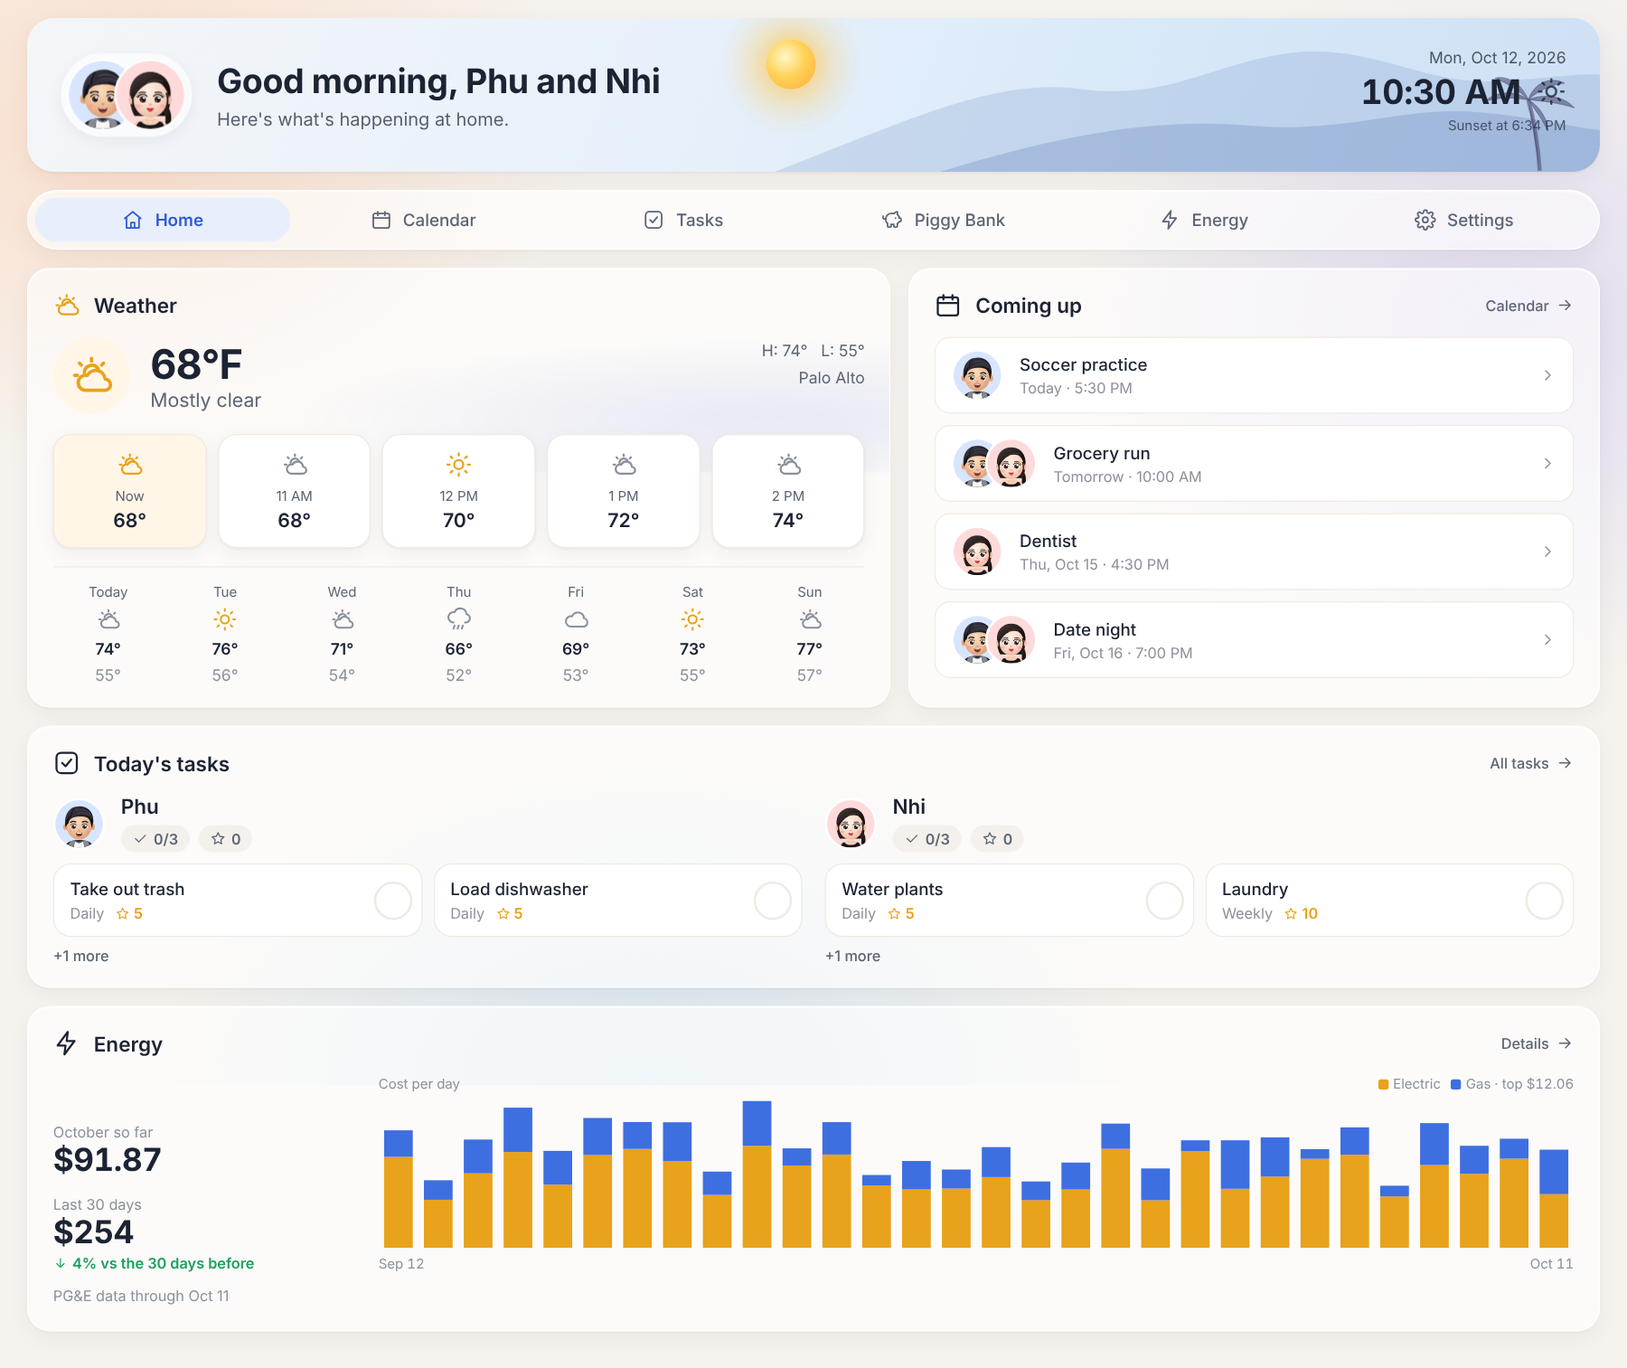
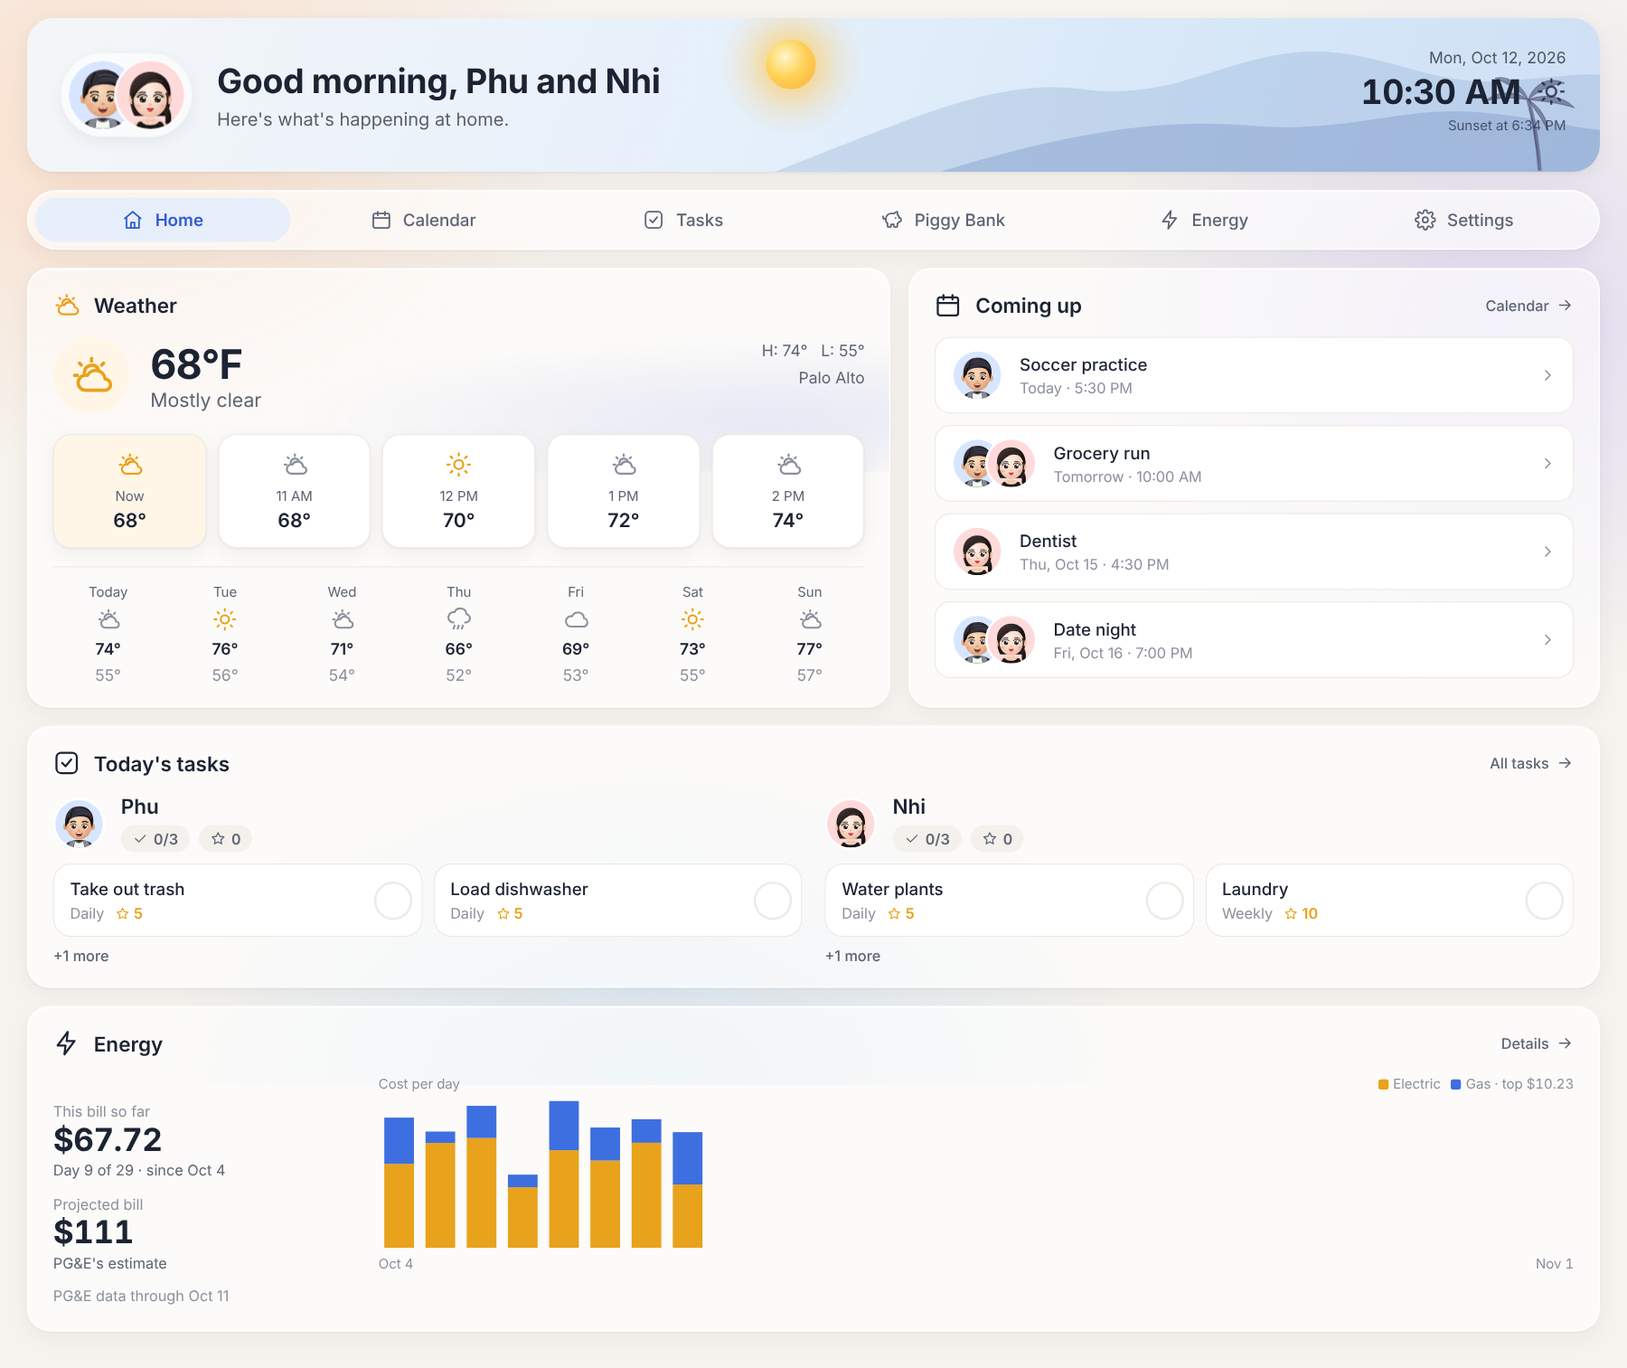
Show energy for the current PG&E billing cycle
The daily sync now also saves PG&E's past bills and the current bill
forecast (cycle start and end, cost so far, projected cost) in the
encrypted file. The Energy page defaults to This bill: from the cycle's
first day through today, with day N of the cycle, days left and the
projected bill. Last bill and a By bill table follow PG&E's 29/30-day
cycles instead of calendar months. Falls back to the old views until
cycle dates have synced.

Claude-Session: https://claude.ai/code/session_01YGrfzBSnYmjfhyHiewCr5E

Changed region(s): [[0.2178, 0.8077, 0.9644, 0.9319], [0.0311, 0.8077, 0.1556, 0.9319]]

diff --git a/app.js b/app.js
@@ -334,6 +334,8 @@ async function syncEnergy() {
     const data = await decryptEnergy(box, energyPass);
     energy = energy || { electric: {}, gas: {} };
     for (const k of ['electric', 'gas']) energy[k] = { ...(energy[k] || {}), ...(data[k] || {}) };
+    energy.bills = { ...(energy.bills || {}), ...(data.bills || {}) };
+    if (data.forecast) energy.forecast = data.forecast;
     energy.syncedAt = data.syncedAt;
     saveEnergy();
     energySync = { state: Date.now() - data.syncedAt > 36 * 36e5 ? 'stale' : 'ok', at: data.syncedAt };
@@ -370,10 +372,58 @@ function syncBanner(always = false, link = true) {
 }
 
 // Daily or monthly rows for a range, newest last. Each row: { key, label, kwh, therms, eCost, gCost, cost }
+/* PG&E bills every 29 or 30 days, so "this bill" follows the billing cycle, not the calendar month.
+   Cycle start dates come from past bills and the current bill's forecast in the synced file. */
+const dayAt = (iso) => new Date(`${iso}T12:00`);
+const daysIncl = (a, b) => Math.round((dayAt(b) - dayAt(a)) / 864e5) + 1;
+function cycleStarts() {
+  const s = new Set(Object.keys(energy?.bills || {}));
+  if (energy?.forecast?.start) s.add(energy.forecast.start);
+  return [...s].sort();
+}
+// The billing cycle that contains `iso` (today by default), or null before any cycle dates have synced.
+function cycleFor(iso = isoDay(new Date())) {
+  const starts = cycleStarts();
+  const i = starts.filter((d) => d <= iso).length - 1;
+  if (i < 0) return null;
+  let start = starts[i];
+  if (starts[i + 1]) return { start, end: isoDay(addDays(dayAt(starts[i + 1]), -1)), known: true };
+  const f = energy.forecast;
+  let end = f?.start === start && f.end ? f.end : isoDay(addDays(dayAt(start), 29));
+  if (daysIncl(start, end) > 31) end = isoDay(addDays(dayAt(end), -1));
+  let known = f?.start === start;
+  // The bill closed but the next one hasn't synced yet: assume a 30-day cycle follows.
+  while (end < iso) { start = isoDay(addDays(dayAt(end), 1)); end = isoDay(addDays(dayAt(start), 29)); known = false; }
+  return { start, end, known };
+}
+function previousCycle(c) {
+  const before = isoDay(addDays(dayAt(c.start), -1));
+  const p = cycleFor(before);
+  return p && p.start < c.start ? { ...p, end: before } : { start: isoDay(addDays(dayAt(before), -29)), end: before, known: false };
+}
+const cycleRange = (c) => `${fmtShort(c.start)} – ${fmtShort(c.end)}`;
+// PG&E's projection for the current bill, when the forecast matches this cycle.
+function billForecast(c) {
+  const f = energy?.forecast;
+  if (!f || !c || f.start !== c.start) return null;
+  const sum = (i) => (f.electric?.[i] || 0) + (f.gas?.[i] || 0);
+  return { toDate: sum(0), projected: sum(1), typical: sum(2) };
+}
+const billed = (start) => { const b = energy?.bills?.[start]; return b ? (b.electric?.[1] || 0) + (b.gas?.[1] || 0) : null; };
+
 function energyRows(range) {
   const all = energyDays();
   if (!all.length) return [];
   const last = new Date(`${all[all.length - 1]}T12:00`);
+  if (range === 'cycle' || range === 'last') {
+    let c = cycleFor();
+    if (!c) return energyRows('30');
+    if (range === 'last') c = previousCycle(c);
+    return Array.from({ length: daysIncl(c.start, c.end) }, (_, i) => {
+      const key = isoDay(addDays(dayAt(c.start), i));
+      return { key, label: fmtShort(key), days: all.includes(key) ? 1 : 0, ...dayTotal(key) };
+    });
+  }
   if (range === '12m') {
     return Array.from({ length: 12 }, (_, i) => {
       const m = new Date(last.getFullYear(), last.getMonth() - 11 + i, 1);
@@ -420,19 +470,29 @@ function energyCard() {
   const head = `<div class="card-head">${icon('zap')}<h2>Energy</h2>${all.length ? `<a class="link" href="#/energy">Details ${icon('arrowRight')}</a>` : ''}</div>`;
   if (!all.length) return `<div class="card a-energy">${head}${syncBanner()}</div>`;
   const last = all[all.length - 1];
-  const rows = energyRows('30');
-  const now = energyTotals(rows);
-  const prev = sumDays(energyRows('60').slice(0, 30).filter((r) => r.days).map((r) => r.key));
-  const month = sumDays(all.filter((d) => d.slice(0, 7) === last.slice(0, 7)));
-  const hasCost = now.cost > 0;
-  const change = prev.cost > 0 && energyRows('60').slice(0, 30).filter((r) => r.days).length >= 25 ? Math.round(((now.cost - prev.cost) / prev.cost) * 100) : null;
+  const c = cycleFor();
+  const fmt = (t) => (t.cost > 0 ? fmtMoney(t.cost) : `${Math.round(t.kwh)} kWh`);
+  let stats; let rows;
+  if (c) {
+    rows = energyRows('cycle');
+    const now = energyTotals(rows);
+    const fc = billForecast(c);
+    const prev = previousCycle(c);
+    const prevT = energyTotals(energyRows('last'));
+    const dayN = Math.min(daysIncl(c.start, isoDay(new Date())), daysIncl(c.start, c.end));
+    stats = `<div><small>This bill so far</small><b>${fmt(now)}</b><span class="stat-note">Day ${dayN} of ${daysIncl(c.start, c.end)} · since ${fmtShort(c.start)}</span></div>
+      ${fc && fc.projected ? `<div><small>Projected bill</small><b>${fmtMoney(fc.projected)}</b><span class="stat-note">PG&amp;E's estimate</span></div>`
+        : `<div><small>Last bill</small><b>${fmt(billed(prev.start) !== null ? { cost: billed(prev.start) } : prevT)}</b><span class="stat-note">${cycleRange(prev)}</span></div>`}`;
+  } else {
+    rows = energyRows('30');
+    const now = energyTotals(rows);
+    const month = sumDays(all.filter((d) => d.slice(0, 7) === last.slice(0, 7)));
+    stats = `<div><small>${new Date(`${last}T12:00`).toLocaleDateString([], { month: 'long' })} so far</small><b>${fmt(month)}</b></div>
+      <div><small>Last 30 days</small><b>${fmt(now)}</b></div>`;
+  }
   return `<div class="card a-energy">${head}
     <div class="energy">
-      <div class="energy-stats">
-        <div><small>${new Date(`${last}T12:00`).toLocaleDateString([], { month: 'long' })} so far</small><b>${hasCost ? fmtMoney(month.cost) : `${Math.round(month.kwh)} kWh`}</b></div>
-        <div><small>Last 30 days</small><b>${hasCost ? fmtMoney(now.cost) : `${Math.round(now.kwh)} kWh`}</b>
-          ${change === null ? '' : change === 0 ? '<span class="trend">Same as the 30 days before</span>' : `<span class="trend ${change > 0 ? 'up' : 'down'}">${icon(change > 0 ? 'arrowUp' : 'arrowDown')}${Math.abs(change)}% vs the 30 days before</span>`}</div>
-      </div>
+      <div class="energy-stats">${stats}</div>
       ${energyChart(rows)}
     </div>
     <p class="hint energy-foot">PG&amp;E data through ${fmtShort(last)}</p>
@@ -1009,39 +1069,91 @@ function openExpenseSheet(ex) {
 }
 
 /* ---------- Energy ---------- */
-const ENERGY_RANGES = { 30: '30 days', 90: '90 days', '12m': '12 months' };
+const ENERGY_RANGES = [['cycle', 'This bill'], ['last', 'Last bill'], ['90', '90 days'], ['12m', '12 months']];
 views.energy = () => {
-  const range = state.settings.energyRange || '30';
+  const range = ENERGY_RANGES.some(([k]) => k === state.settings.energyRange) ? state.settings.energyRange : 'cycle';
   const all = energyDays();
   if (!all.length) {
     return `<div class="section-title">Energy</div>
     <div class="card energy-empty">${syncBanner()}
-      <p class="hint">Once PG&amp;E data comes in, this page shows your daily and monthly use and cost, split into electric and gas.</p></div>`;
+      <p class="hint">Once PG&amp;E data comes in, this page shows your use and cost for the current bill, past bills and the last year, split into electric and gas.</p></div>`;
   }
+  const today = isoDay(new Date());
+  const cur = cycleFor();
+  const isBill = range === 'cycle' || range === 'last';
+  const c = isBill && cur ? (range === 'last' ? previousCycle(cur) : cur) : null;
   const rows = energyRows(range);
   const t = energyTotals(rows);
-  const months = energyRows('12m').filter((r) => r.days).reverse();
   const perDay = t.days ? t.cost / t.days : 0;
-  return `<div class="section-title">Energy<span class="spacer"></span>
-    <div class="seg">${Object.entries(ENERGY_RANGES).map(([k, l]) => `<button class="${range === k ? 'on' : ''}" data-action="energy-range" data-v="${k}">${l}</button>`).join('')}</div></div>
-  ${syncBanner(true)}
-  <div class="energy-tiles">
-    <div class="card tile"><small>Total cost</small><b>${fmtMoney(t.cost)}</b><span>${t.days} day${t.days === 1 ? '' : 's'} of data</span></div>
-    <div class="card tile"><small><i class="key-e"></i>Electric</small><b>${fmtMoney(t.eCost)}</b><span>${Math.round(t.kwh).toLocaleString()} kWh</span></div>
-    <div class="card tile"><small><i class="key-g"></i>Gas</small><b>${fmtMoney(t.gCost)}</b><span>${Math.round(t.therms).toLocaleString()} therms</span></div>
-    <div class="card tile"><small>Average per day</small><b>${fmtMoney(perDay)}</b><span>${t.days ? (t.kwh / t.days).toFixed(1) : 0} kWh a day</span></div>
-  </div>
-  <div class="card energy-main">${energyChart(rows, 220)}</div>
-  <div class="card">
-    <div class="card-head">${icon('calendar')}<h2>By month</h2><span class="hint">PG&amp;E data through ${fmtShort(all[all.length - 1])}</span></div>
+  const fc = range === 'cycle' ? billForecast(c) : null;
+  const bill = c && range === 'last' ? billed(c.start) : null;
+  let note = '';
+  if (isBill && !c) note = `<p class="hint cycle-note">Billing cycle dates come with the next morning's PG&amp;E sync. Until then this shows the last 30 days.</p>`;
+  else if (range === 'cycle') {
+    const dayN = Math.min(daysIncl(c.start, today), daysIncl(c.start, c.end));
+    const left = daysIncl(today, c.end) - 1;
+    note = `<div class="card cycle-bar"><div><small>Current bill</small><b>${cycleRange(c)}</b></div>
+      <div><small>Day</small><b>${dayN} of ${daysIncl(c.start, c.end)}</b></div>
+      <div><small>Days left</small><b>${Math.max(left, 0)}</b></div>
+      <div class="cycle-progress"><span style="width:${Math.round((dayN / daysIncl(c.start, c.end)) * 100)}%"></span></div>
+      <p class="hint">${c.known ? '' : 'Bill dates are estimated until PG&amp;E sends this cycle. '}PG&amp;E data through ${fmtShort(all[all.length - 1])}; the latest day or two can lag.</p></div>`;
+  } else if (range === 'last') {
+    note = `<p class="hint cycle-note">Last bill: ${cycleRange(c)} (${daysIncl(c.start, c.end)} days)${c.known ? '' : ', estimated dates'}.</p>`;
+  }
+  const lastTile = fc && fc.projected
+    ? `<div class="card tile"><small>Projected bill</small><b>${fmtMoney(fc.projected)}</b><span>PG&amp;E's estimate${fc.typical ? ` · usually ${fmtMoney(fc.typical)}` : ''}</span></div>`
+    : bill !== null
+      ? `<div class="card tile"><small>Billed</small><b>${fmtMoney(bill)}</b><span>${fmtMoney(perDay)} a day on average</span></div>`
+      : `<div class="card tile"><small>Average per day</small><b>${fmtMoney(perDay)}</b><span>${t.days ? (t.kwh / t.days).toFixed(1) : 0} kWh a day</span></div>`;
+
+  // Past bills when cycle dates are known, calendar months otherwise.
+  const starts = cycleStarts();
+  let table;
+  if (cur && starts.length >= 2) {
+    const cycles = [];
+    for (let x = cur, i = 0; x && i < 13; i++) {
+      cycles.push(x);
+      const p = previousCycle(x);
+      if (!p.known) break; // only bills PG&E has actually sent
+      x = p;
+    }
+    table = `<div class="card-head">${icon('calendar')}<h2>By bill</h2><span class="hint">Each PG&amp;E billing cycle, newest first</span></div>
+    <div class="table-wrap"><table class="energy-table">
+      <thead><tr><th>Bill</th><th>Electric</th><th>Gas</th><th>Total</th></tr></thead>
+      <tbody>${cycles.map((x) => {
+        const m = energyTotals(all.filter((d) => d >= x.start && d <= x.end).map((d) => ({ days: 1, ...dayTotal(d) })));
+        const b = billed(x.start);
+        const isCur = x.start === cur.start;
+        return `<tr><td>${cycleRange(x)} <span class="muted">(${daysIncl(x.start, x.end)} days${isCur ? ', so far' : ''})</span></td>
+          <td>${fmtMoney(m.eCost)} <span class="muted">${Math.round(m.kwh)} kWh</span></td>
+          <td>${fmtMoney(m.gCost)} <span class="muted">${Math.round(m.therms)} therms</span></td>
+          <td><b>${fmtMoney(m.cost)}</b>${b !== null && !isCur ? ` <span class="muted">billed ${fmtMoney(b)}</span>` : ''}</td></tr>`;
+      }).join('')}</tbody>
+    </table></div>`;
+  } else {
+    const months = energyRows('12m').filter((r) => r.days).reverse();
+    table = `<div class="card-head">${icon('calendar')}<h2>By month</h2><span class="hint">PG&amp;E data through ${fmtShort(all[all.length - 1])}</span></div>
     <div class="table-wrap"><table class="energy-table">
       <thead><tr><th>Month</th><th>Electric</th><th>Gas</th><th>Total</th></tr></thead>
       <tbody>${months.map((m) => `<tr><td>${new Date(`${m.key}-15T12:00`).toLocaleDateString([], { month: 'long', year: 'numeric' })}${m.days < 28 ? ` <span class="muted">(${m.days} days)</span>` : ''}</td>
         <td>${fmtMoney(m.eCost)} <span class="muted">${Math.round(m.kwh)} kWh</span></td>
         <td>${fmtMoney(m.gCost)} <span class="muted">${Math.round(m.therms)} therms</span></td>
         <td><b>${fmtMoney(m.cost)}</b></td></tr>`).join('')}</tbody>
-    </table></div>
-  </div>`;
+    </table></div>`;
+  }
+
+  return `<div class="section-title">Energy<span class="spacer"></span>
+    <div class="seg">${ENERGY_RANGES.map(([k, l]) => `<button class="${range === k ? 'on' : ''}" data-action="energy-range" data-v="${k}">${l}</button>`).join('')}</div></div>
+  ${syncBanner(true)}
+  ${note}
+  <div class="energy-tiles">
+    <div class="card tile"><small>${range === 'cycle' && c ? 'So far this bill' : 'Total cost'}</small><b>${fmtMoney(t.cost)}</b><span>${t.days} day${t.days === 1 ? '' : 's'} of data</span></div>
+    <div class="card tile"><small><i class="key-e"></i>Electric</small><b>${fmtMoney(t.eCost)}</b><span>${Math.round(t.kwh).toLocaleString()} kWh</span></div>
+    <div class="card tile"><small><i class="key-g"></i>Gas</small><b>${fmtMoney(t.gCost)}</b><span>${Math.round(t.therms).toLocaleString()} therms</span></div>
+    ${lastTile}
+  </div>
+  <div class="card energy-main">${energyChart(rows, 220)}</div>
+  <div class="card">${table}</div>`;
 };
 
 views.settings = () => {

diff --git a/styles.css b/styles.css
@@ -495,6 +495,23 @@ label.btn { cursor: pointer; }
 }
 .demo-note { font-size: 12px; color: var(--text-3); text-align: center; margin-top: 18px; }
 
+/* Current PG&E bill: dates, day count and a progress bar through the cycle */
+.cycle-bar { display: grid; grid-template-columns: auto auto auto 1fr; align-items: end; gap: 10px 32px; margin-bottom: 16px; }
+.cycle-bar small { display: block; font-size: 13px; color: var(--text-3); }
+.cycle-bar b { font-size: 20px; font-weight: 700; font-variant-numeric: tabular-nums; }
+.cycle-progress { align-self: center; height: 10px; border-radius: 999px; background: var(--muted-surface); overflow: hidden; }
+.cycle-progress span { display: block; height: 100%; border-radius: inherit; background: var(--amber-fg); }
+.cycle-bar .hint { grid-column: 1 / -1; margin: 0; }
+.cycle-note { margin: 0 0 16px; }
+.energy-stats .stat-note { display: block; font-size: 13px; color: var(--text-2); margin-top: 2px; }
+@media (max-width: 600px) {
+  .cycle-bar { grid-template-columns: repeat(3, auto); gap: 10px 20px; }
+  .cycle-progress { grid-column: 1 / -1; }
+  .section-title { flex-wrap: wrap; }
+  .section-title .seg { order: 3; width: 100%; }
+  .section-title .seg button { flex: 1; padding: 8px 4px; white-space: nowrap; }
+}
+
 /* ---------- Piggy Bank ---------- */
 .piggy-bar { display: flex; align-items: center; gap: 10px; flex-wrap: wrap; padding: 14px 18px; margin-bottom: 16px; }
 .piggy-month { display: flex; flex-direction: column; margin-left: 6px; }

diff --git a/sw.js b/sw.js
@@ -1,5 +1,5 @@
 // Offline support: cache the app shell, always try the network first for weather.
-const CACHE = 'home-dashboard-v14';
+const CACHE = 'home-dashboard-v15';
 const SHELL = ['./', 'index.html', 'styles.css', 'app.js', 'icons.js', 'sync.js', 'sync-config.js', 'manifest.webmanifest', 'icons/icon.svg', 'icons/icon-192.png', 'icons/icon-512.png', 'avatars/phu.svg', 'avatars/nhi.svg'];
 
 self.addEventListener('install', (e) => {

diff --git a/sync/pge_sync.py b/sync/pge_sync.py
@@ -41,9 +41,32 @@ def previous(passphrase: str) -> tuple[dict, bytes | None]:
         return {"electric": {}, "gas": {}}, None
 
 
+async def billing(api: Opower, account, kind: str, out: dict) -> None:
+    """Past bills (start date, usage, billed cost), so the dashboard can follow PG&E's billing cycles."""
+    try:
+        start = datetime.now() - timedelta(days=400)
+        for read in await api.async_get_cost_reads(account, AggregateType.BILL, start, datetime.now()):
+            day = read.start_time.strftime("%Y-%m-%d")
+            bill = out["bills"].setdefault(day, {})
+            bill[kind] = [round(read.consumption, 3), round(read.provided_cost, 2)]
+    except Exception as err:  # bills are a nice-to-have; daily data still syncs
+        print(f"No {kind} bills ({err})")
+
+
+async def forecast(api: Opower, out: dict) -> None:
+    """The current bill: when it started, when it ends, and PG&E's projected cost."""
+    try:
+        for f in await api.async_get_forecast():
+            kind = "gas" if f.account.meter_type == MeterType.GAS else "electric"
+            out["forecast"] = {**out.get("forecast", {}), "start": f.start_date.isoformat(), "end": f.end_date.isoformat(),
+                               kind: [round(f.cost_to_date, 2), round(f.forecasted_cost, 2), round(f.typical_cost, 2)]}
+    except Exception as err:
+        print(f"No bill forecast ({err})")
+
+
 async def fetch() -> dict:
     login_data = json.loads(os.environ.get("PGE_LOGIN_DATA") or "{}")
-    out = {"electric": {}, "gas": {}}
+    out = {"electric": {}, "gas": {}, "bills": {}}
     async with aiohttp.ClientSession(cookie_jar=create_cookie_jar()) as session:
         api = Opower(session, "pge", os.environ["PGE_USERNAME"], os.environ["PGE_PASSWORD"], None, login_data)
         try:
@@ -61,6 +84,8 @@ async def fetch() -> dict:
                 cur = out[kind].setdefault(day, [0, 0])
                 cur[0] = round(cur[0] + read.consumption, 3)
                 cur[1] = round(cur[1] + read.provided_cost, 2)
+            await billing(api, account, kind, out)
+        await forecast(api, out)
     return out
 
 
@@ -75,10 +100,16 @@ def main() -> None:
     fresh = asyncio.run(fetch())
     for kind in ("electric", "gas"):
         data.setdefault(kind, {}).update(fresh[kind])
+    for start, bill in fresh["bills"].items():
+        data.setdefault("bills", {}).setdefault(start, {}).update(bill)
+    if fresh.get("forecast"):
+        data["forecast"] = fresh["forecast"]
     data["syncedAt"] = int(datetime.now().timestamp() * 1000)
     with open(target, "w") as f:
         json.dump(encrypt(data, passphrase), f)
-    print(f"Fetched {len(fresh['electric'])} electric and {len(fresh['gas'])} gas days from PG&E")
+    print(f"Fetched {len(fresh['electric'])} electric and {len(fresh['gas'])} gas days and {len(fresh['bills'])} bills from PG&E")
+    if fresh.get("forecast"):
+        print(f"Current bill: {fresh['forecast']['start']} to {fresh['forecast']['end']}")
 
 
 if __name__ == "__main__":

diff --git a/README.md b/README.md
@@ -37,7 +37,7 @@ Shared expenses, one month at a time (the 1st through the last day). Log the day
 ![Piggy Bank page](docs/screenshots/piggy.png)
 
 ### Energy
-PG&E use and cost over 30 days, 90 days or 12 months, split into electric and gas, with a month-by-month table. Data syncs every morning (see [PG&E energy sync](#pge-energy-sync)), and the page says plainly when it isn't syncing.
+PG&E use and cost for the current bill, from the day the billing cycle started through today, with the day count, days left and PG&E's projected bill. Cycles run 29 or 30 days, so the dates come from PG&E's own bills rather than the calendar month. You can also see the last bill, 90 days or 12 months, split into electric and gas, plus a table of past bills. Data syncs every morning (see [PG&E energy sync](#pge-energy-sync)), and the page says plainly when it isn't syncing.
 
 ![Energy page](docs/screenshots/energy.png)
 
